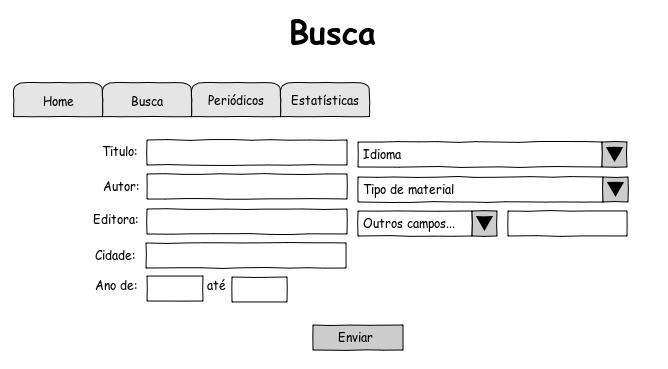
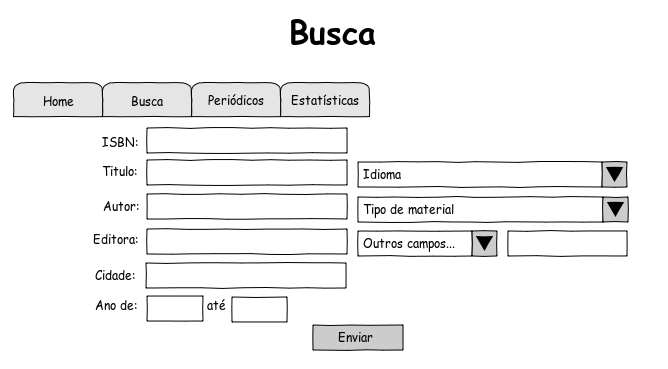
Alterações devido ao periódico não poder ser emprestado

Changed region(s): [[0.1198, 0.3279, 0.9581, 0.8645], [0.2096, 0.8645, 0.2994, 0.8943], [0.3593, 0.8645, 0.4192, 0.8943]]

diff --git a/esboco-telas/html/index.html b/esboco-telas/html/index.html
@@ -1,1 +1,1 @@
-<html xmlns="http://www.w3.org/1999/xhtml"><head><meta http-equiv="Content-Type" content="text/html; charset=UTF-8" /><title>biblio.ep</title></head><body><h1 id="documentTitle">biblio.ep</h1><p id="documentMetadata">Exported at: Thu Jun 09 2011 19:12:32 GMT-0300 (BRT)</p><div class="Page" id="home_page"><h2>Home</h2><div class="ImageContainer"><img width="608" height="467" src="pages/home.png" usemap="#map_home" /></div><map name="map_home"><area shape="rect" coords="313,200,434,215" href="#cadastro_usurio_page" title="Go to page 'Cadastro usuário'" /><area shape="rect" coords="242,195,296,222" href="#home_usurio_page" title="Go to page 'Home usuário'" /></map></div><div class="Page" id="cadastro_usurio_page"><h2>Cadastro usuário</h2><div class="ImageContainer"><img width="608" height="467" src="pages/cadastro_usurio.png" usemap="#map_cadastro_usurio" /></div><map name="map_cadastro_usurio"><area shape="rect" coords="272,226,365,254" href="#home_usurio_page" title="Go to page 'Home usuário'" /></map></div><div class="Page" id="home_usurio_page"><h2>Home usuário</h2><div class="ImageContainer"><img width="608" height="467" src="pages/home_usurio.png" usemap="#map_home_usurio" /></div><map name="map_home_usurio"><area shape="rect" coords="276,78,374,125" href="#estatsticas_page" title="Go to page 'Estatísticas'" /><area shape="rect" coords="187,78,285,125" href="#lista_peridicos_page" title="Go to page 'Lista Periódicos'" /><area shape="rect" coords="98,78,196,125" href="#busca_page" title="Go to page 'Busca'" /><area shape="rect" coords="9,78,107,125" href="#home_usurio_page" title="Go to page 'Home usuário'" /></map></div><div class="Page" id="resultado_da_busca_page"><h2>Resultado da Busca</h2><div class="ImageContainer"><img width="608" height="467" src="pages/resultado_da_busca.png" usemap="#map_resultado_da_busca" /></div><map name="map_resultado_da_busca"><area shape="rect" coords="276,78,374,125" href="#estatsticas_page" title="Go to page 'Estatísticas'" /><area shape="rect" coords="187,78,285,125" href="#lista_peridicos_page" title="Go to page 'Lista Periódicos'" /><area shape="rect" coords="98,78,196,125" href="#busca_page" title="Go to page 'Busca'" /><area shape="rect" coords="9,78,107,125" href="#home_usurio_page" title="Go to page 'Home usuário'" /><area shape="rect" coords="528,273,606,296" href="#reserva_disponvel_page" title="Go to page 'Reserva Disponível'" /><area shape="rect" coords="528,249,606,272" href="#reserva_disponvel_page" title="Go to page 'Reserva Disponível'" /><area shape="rect" coords="528,224,606,247" href="#reserva_disponvel_page" title="Go to page 'Reserva Disponível'" /><area shape="rect" coords="528,199,606,222" href="#reserva_espera_page" title="Go to page 'Reserva Espera'" /></map></div><div class="Page" id="reserva_disponvel_page"><h2>Reserva Disponível</h2><div class="ImageContainer"><img width="608" height="467" src="pages/reserva_disponvel.png" usemap="#map_reserva_disponvel" /></div><map name="map_reserva_disponvel"><area shape="rect" coords="276,78,374,125" href="#estatsticas_page" title="Go to page 'Estatísticas'" /><area shape="rect" coords="187,78,285,125" href="#lista_peridicos_page" title="Go to page 'Lista Periódicos'" /><area shape="rect" coords="98,78,196,125" href="#busca_page" title="Go to page 'Busca'" /><area shape="rect" coords="9,78,107,125" href="#home_usurio_page" title="Go to page 'Home usuário'" /></map></div><div class="Page" id="reserva_espera_page"><h2>Reserva Espera</h2><div class="ImageContainer"><img width="608" height="467" src="pages/reserva_espera.png" usemap="#map_reserva_espera" /></div><map name="map_reserva_espera"><area shape="rect" coords="276,78,374,125" href="#estatsticas_page" title="Go to page 'Estatísticas'" /><area shape="rect" coords="187,78,285,125" href="#lista_peridicos_page" title="Go to page 'Lista Periódicos'" /><area shape="rect" coords="98,78,196,125" href="#busca_page" title="Go to page 'Busca'" /><area shape="rect" coords="9,78,107,125" href="#home_usurio_page" title="Go to page 'Home usuário'" /></map></div><div class="Page" id="busca_page"><h2>Busca</h2><div class="ImageContainer"><img width="668" height="369" src="pages/busca.png" usemap="#map_busca" /></div><map name="map_busca"><area shape="rect" coords="276,78,374,125" href="#estatsticas_page" title="Go to page 'Estatísticas'" /><area shape="rect" coords="187,78,285,125" href="#lista_peridicos_page" title="Go to page 'Lista Periódicos'" /><area shape="rect" coords="98,78,196,125" href="#busca_page" title="Go to page 'Busca'" /><area shape="rect" coords="9,78,107,125" href="#home_usurio_page" title="Go to page 'Home usuário'" /><area shape="rect" coords="312,324,404,351" href="#resultado_da_busca_page" title="Go to page 'Resultado da Busca'" /></map></div><div class="Page" id="lista_peridicos_page"><h2>Lista Periódicos</h2><div class="ImageContainer"><img width="608" height="467" src="pages/lista_peridicos.png" usemap="#map_lista_peridicos" /></div><map name="map_lista_peridicos"><area shape="rect" coords="276,78,374,125" href="#estatsticas_page" title="Go to page 'Estatísticas'" /><area shape="rect" coords="187,78,285,125" href="#lista_peridicos_page" title="Go to page 'Lista Periódicos'" /><area shape="rect" coords="98,78,196,125" href="#busca_page" title="Go to page 'Busca'" /><area shape="rect" coords="9,78,107,125" href="#home_usurio_page" title="Go to page 'Home usuário'" /><area shape="rect" coords="520,238,562,255" href="#lista_artigos_page" title="Go to page 'Lista artigos'" /><area shape="rect" coords="520,200,562,217" href="#lista_artigos_page" title="Go to page 'Lista artigos'" /></map></div><div class="Page" id="lista_artigos_page"><h2>Lista artigos</h2><div class="ImageContainer"><img width="608" height="467" src="pages/lista_artigos.png" usemap="#map_lista_artigos" /></div><map name="map_lista_artigos"><area shape="rect" coords="276,78,374,125" href="#estatsticas_page" title="Go to page 'Estatísticas'" /><area shape="rect" coords="187,78,285,125" href="#lista_peridicos_page" title="Go to page 'Lista Periódicos'" /><area shape="rect" coords="98,78,196,125" href="#busca_page" title="Go to page 'Busca'" /><area shape="rect" coords="9,78,107,125" href="#home_usurio_page" title="Go to page 'Home usuário'" /></map></div><div class="Page" id="estatsticas_page"><h2>Estatísticas</h2><div class="ImageContainer"><img width="608" height="467" src="pages/estatsticas.png" usemap="#map_estatsticas" /></div><map name="map_estatsticas"><area shape="rect" coords="276,78,374,125" href="#estatsticas_page" title="Go to page 'Estatísticas'" /><area shape="rect" coords="187,78,285,125" href="#lista_peridicos_page" title="Go to page 'Lista Periódicos'" /><area shape="rect" coords="98,78,196,125" href="#busca_page" title="Go to page 'Busca'" /><area shape="rect" coords="9,78,107,125" href="#home_usurio_page" title="Go to page 'Home usuário'" /></map></div></body></html>
+<html xmlns="http://www.w3.org/1999/xhtml"><head><meta http-equiv="Content-Type" content="text/html; charset=UTF-8" /><title>biblio.ep</title></head><body><h1 id="documentTitle">biblio.ep</h1><p id="documentMetadata">Exported at: Sun Jun 12 2011 12:51:35 GMT-0300 (BRT)</p><div class="Page" id="home_page"><h2>Home</h2><div class="ImageContainer"><img width="608" height="467" src="pages/home.png" usemap="#map_home" /></div><map name="map_home"><area shape="rect" coords="313,200,434,215" href="#cadastro_usurio_page" title="Go to page 'Cadastro usuário'" /><area shape="rect" coords="242,195,296,222" href="#home_usurio_page" title="Go to page 'Home usuário'" /></map></div><div class="Page" id="cadastro_usurio_page"><h2>Cadastro usuário</h2><div class="ImageContainer"><img width="608" height="467" src="pages/cadastro_usurio.png" usemap="#map_cadastro_usurio" /></div><map name="map_cadastro_usurio"><area shape="rect" coords="272,226,365,254" href="#home_usurio_page" title="Go to page 'Home usuário'" /></map></div><div class="Page" id="home_usurio_page"><h2>Home usuário</h2><div class="ImageContainer"><img width="608" height="467" src="pages/home_usurio.png" usemap="#map_home_usurio" /></div><map name="map_home_usurio"><area shape="rect" coords="276,78,374,125" href="#estatsticas_page" title="Go to page 'Estatísticas'" /><area shape="rect" coords="187,78,285,125" href="#lista_peridicos_page" title="Go to page 'Lista Periódicos'" /><area shape="rect" coords="98,78,196,125" href="#busca_page" title="Go to page 'Busca'" /><area shape="rect" coords="9,78,107,125" href="#home_usurio_page" title="Go to page 'Home usuário'" /></map></div><div class="Page" id="resultado_da_busca_page"><h2>Resultado da Busca</h2><div class="ImageContainer"><img width="608" height="467" src="pages/resultado_da_busca.png" usemap="#map_resultado_da_busca" /></div><map name="map_resultado_da_busca"><area shape="rect" coords="276,78,374,125" href="#estatsticas_page" title="Go to page 'Estatísticas'" /><area shape="rect" coords="187,78,285,125" href="#lista_peridicos_page" title="Go to page 'Lista Periódicos'" /><area shape="rect" coords="98,78,196,125" href="#busca_page" title="Go to page 'Busca'" /><area shape="rect" coords="9,78,107,125" href="#home_usurio_page" title="Go to page 'Home usuário'" /><area shape="rect" coords="528,273,606,296" href="#reserva_disponvel_page" title="Go to page 'Reserva Disponível'" /><area shape="rect" coords="528,249,606,272" href="#reserva_disponvel_page" title="Go to page 'Reserva Disponível'" /><area shape="rect" coords="528,224,606,247" href="#reserva_disponvel_page" title="Go to page 'Reserva Disponível'" /><area shape="rect" coords="528,199,606,222" href="#reserva_espera_page" title="Go to page 'Reserva Espera'" /></map></div><div class="Page" id="reserva_disponvel_page"><h2>Reserva Disponível</h2><div class="ImageContainer"><img width="608" height="467" src="pages/reserva_disponvel.png" usemap="#map_reserva_disponvel" /></div><map name="map_reserva_disponvel"><area shape="rect" coords="276,78,374,125" href="#estatsticas_page" title="Go to page 'Estatísticas'" /><area shape="rect" coords="187,78,285,125" href="#lista_peridicos_page" title="Go to page 'Lista Periódicos'" /><area shape="rect" coords="98,78,196,125" href="#busca_page" title="Go to page 'Busca'" /><area shape="rect" coords="9,78,107,125" href="#home_usurio_page" title="Go to page 'Home usuário'" /></map></div><div class="Page" id="reserva_espera_page"><h2>Reserva Espera</h2><div class="ImageContainer"><img width="608" height="467" src="pages/reserva_espera.png" usemap="#map_reserva_espera" /></div><map name="map_reserva_espera"><area shape="rect" coords="276,78,374,125" href="#estatsticas_page" title="Go to page 'Estatísticas'" /><area shape="rect" coords="187,78,285,125" href="#lista_peridicos_page" title="Go to page 'Lista Periódicos'" /><area shape="rect" coords="98,78,196,125" href="#busca_page" title="Go to page 'Busca'" /><area shape="rect" coords="9,78,107,125" href="#home_usurio_page" title="Go to page 'Home usuário'" /></map></div><div class="Page" id="busca_page"><h2>Busca</h2><div class="ImageContainer"><img width="668" height="369" src="pages/busca.png" usemap="#map_busca" /></div><map name="map_busca"><area shape="rect" coords="276,78,374,125" href="#estatsticas_page" title="Go to page 'Estatísticas'" /><area shape="rect" coords="187,78,285,125" href="#lista_peridicos_page" title="Go to page 'Lista Periódicos'" /><area shape="rect" coords="98,78,196,125" href="#busca_page" title="Go to page 'Busca'" /><area shape="rect" coords="9,78,107,125" href="#home_usurio_page" title="Go to page 'Home usuário'" /><area shape="rect" coords="312,324,404,351" href="#resultado_da_busca_page" title="Go to page 'Resultado da Busca'" /></map></div><div class="Page" id="lista_peridicos_page"><h2>Lista Periódicos</h2><div class="ImageContainer"><img width="608" height="467" src="pages/lista_peridicos.png" usemap="#map_lista_peridicos" /></div><map name="map_lista_peridicos"><area shape="rect" coords="276,78,374,125" href="#estatsticas_page" title="Go to page 'Estatísticas'" /><area shape="rect" coords="187,78,285,125" href="#lista_peridicos_page" title="Go to page 'Lista Periódicos'" /><area shape="rect" coords="98,78,196,125" href="#busca_page" title="Go to page 'Busca'" /><area shape="rect" coords="9,78,107,125" href="#home_usurio_page" title="Go to page 'Home usuário'" /><area shape="rect" coords="520,238,562,255" href="#lista_artigos_page" title="Go to page 'Lista artigos'" /><area shape="rect" coords="520,200,562,217" href="#lista_artigos_page" title="Go to page 'Lista artigos'" /></map></div><div class="Page" id="lista_artigos_page"><h2>Lista artigos</h2><div class="ImageContainer"><img width="608" height="467" src="pages/lista_artigos.png" usemap="#map_lista_artigos" /></div><map name="map_lista_artigos"><area shape="rect" coords="276,78,374,125" href="#estatsticas_page" title="Go to page 'Estatísticas'" /><area shape="rect" coords="187,78,285,125" href="#lista_peridicos_page" title="Go to page 'Lista Periódicos'" /><area shape="rect" coords="98,78,196,125" href="#busca_page" title="Go to page 'Busca'" /><area shape="rect" coords="9,78,107,125" href="#home_usurio_page" title="Go to page 'Home usuário'" /></map></div><div class="Page" id="estatsticas_page"><h2>Estatísticas</h2><div class="ImageContainer"><img width="608" height="467" src="pages/estatsticas.png" usemap="#map_estatsticas" /></div><map name="map_estatsticas"><area shape="rect" coords="276,78,374,125" href="#estatsticas_page" title="Go to page 'Estatísticas'" /><area shape="rect" coords="187,78,285,125" href="#lista_peridicos_page" title="Go to page 'Lista Periódicos'" /><area shape="rect" coords="98,78,196,125" href="#busca_page" title="Go to page 'Busca'" /><area shape="rect" coords="9,78,107,125" href="#home_usurio_page" title="Go to page 'Home usuário'" /></map></div></body></html>
